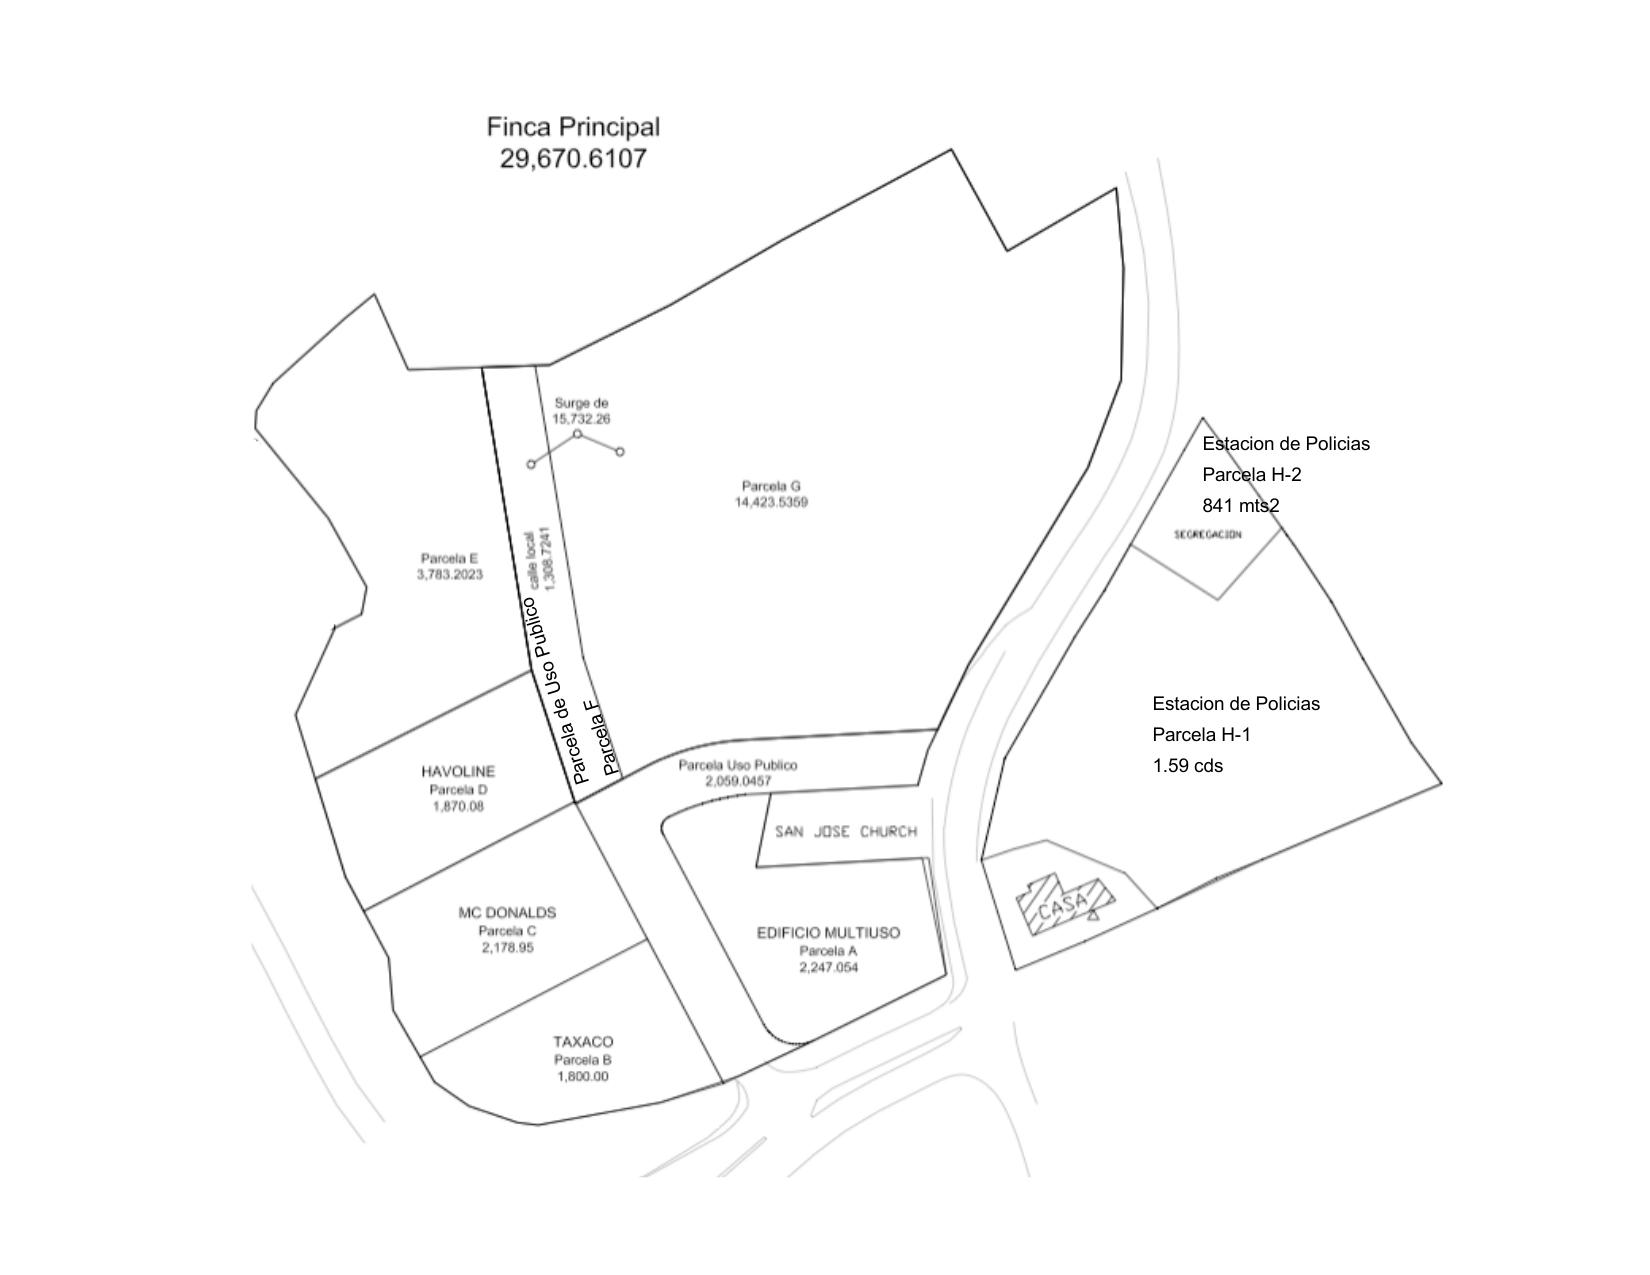
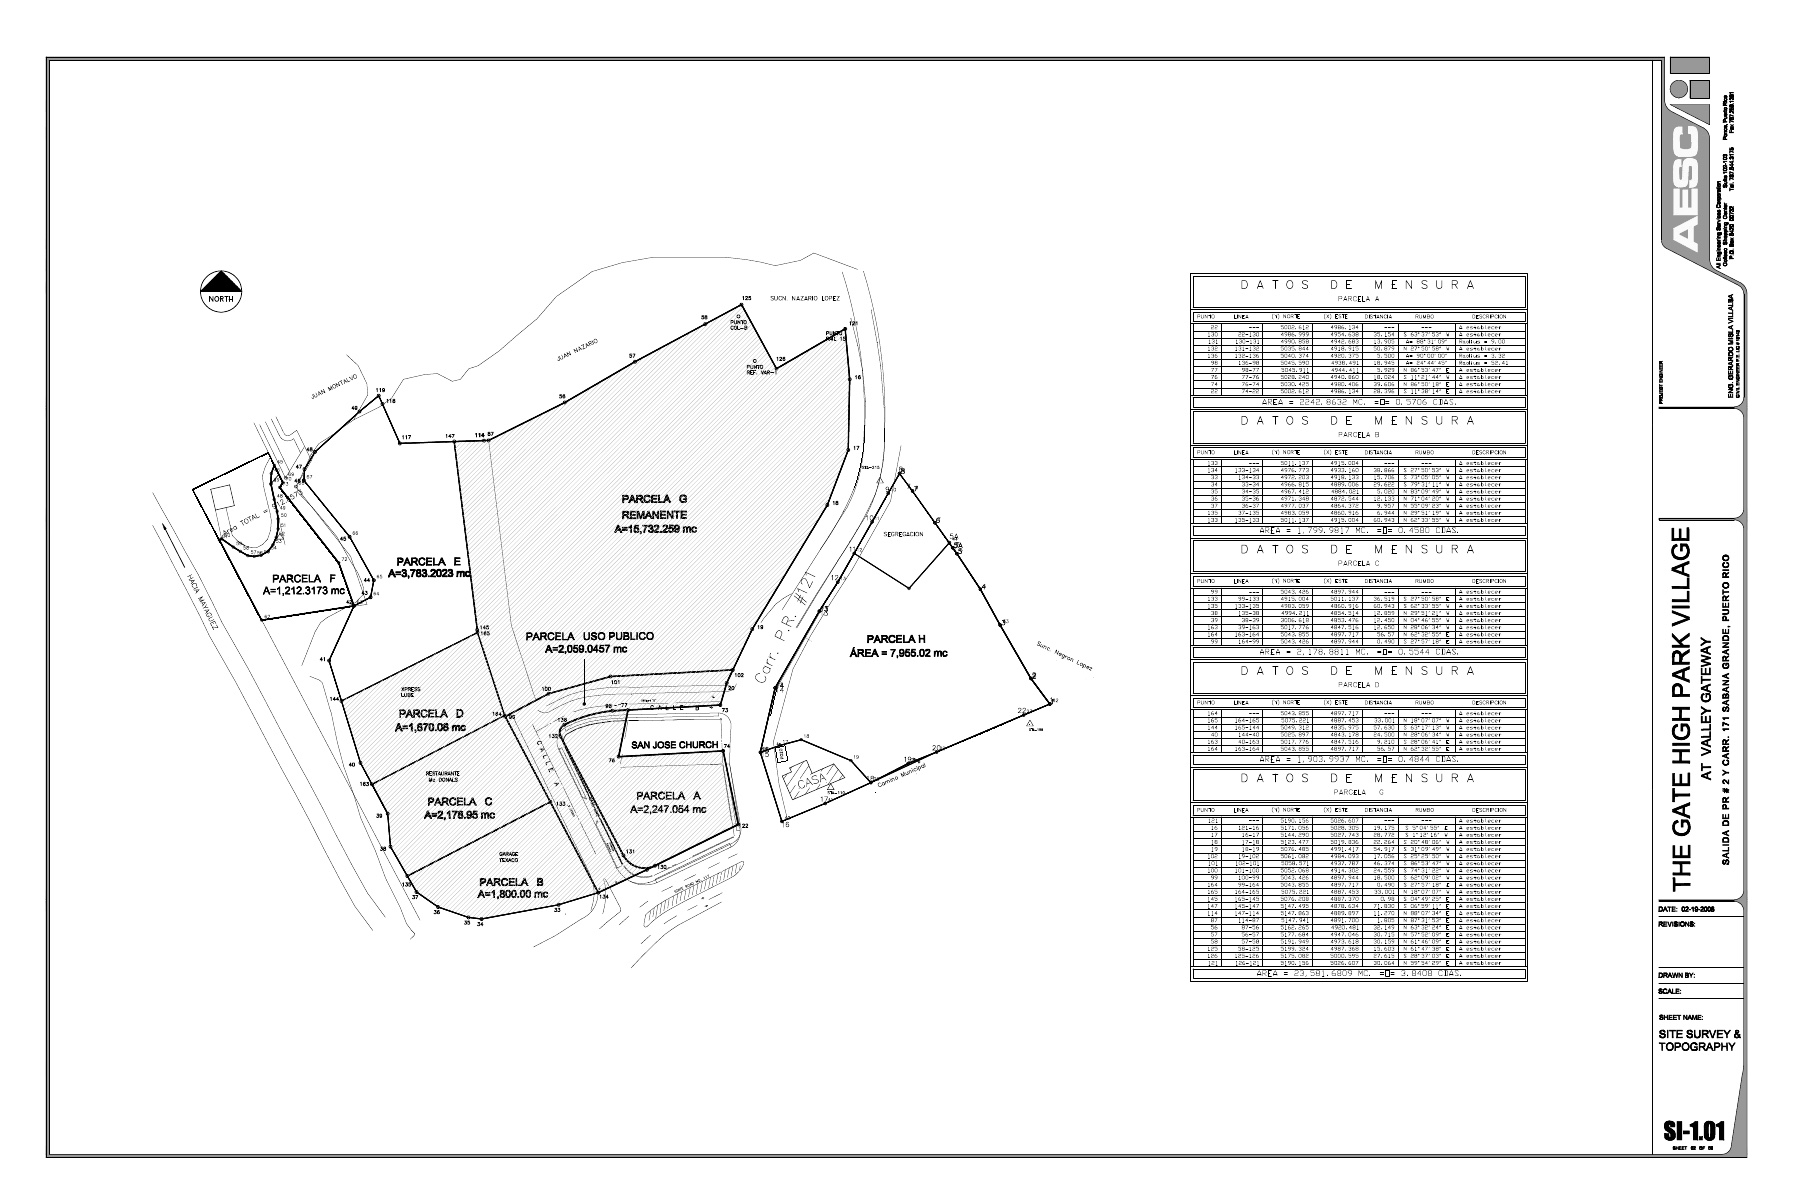
Actualizar mapa de propiedad con plano de mensura

diff --git a/ubicacion.html b/ubicacion.html
@@ -64,9 +64,9 @@ permalink: /ubicacion/
     </div>
     <figure class="parcel-map__figure">
       <a class="plan-link" href="{{ '/assets/images/valley-gateway-parcel-plan.jpg' | relative_url }}" target="_blank" rel="noopener" aria-label="Abrir el mapa de parcelas de MIDWAY">
-        <img src="{{ '/assets/images/valley-gateway-parcel-plan.jpg' | relative_url }}" width="1650" height="1275" alt="Plano referencial de parcelas y usos dentro del conjunto MIDWAY" loading="lazy">
+        <img src="{{ '/assets/images/valley-gateway-parcel-plan.jpg' | relative_url }}" width="1800" height="1200" alt="Plano referencial de mensura y topografía con las parcelas del conjunto MIDWAY" loading="lazy">
       </a>
-      <figcaption>Plano referencial de distribución de parcelas en MIDWAY.</figcaption>
+      <figcaption>Plano referencial de mensura, topografía y distribución de parcelas en MIDWAY.</figcaption>
     </figure>
   </div>
 </section>
